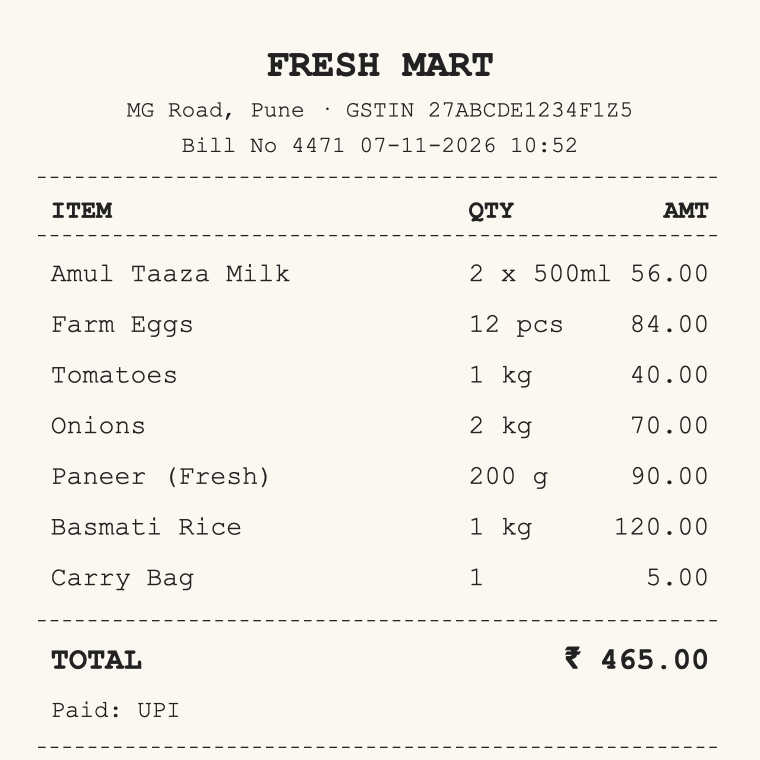
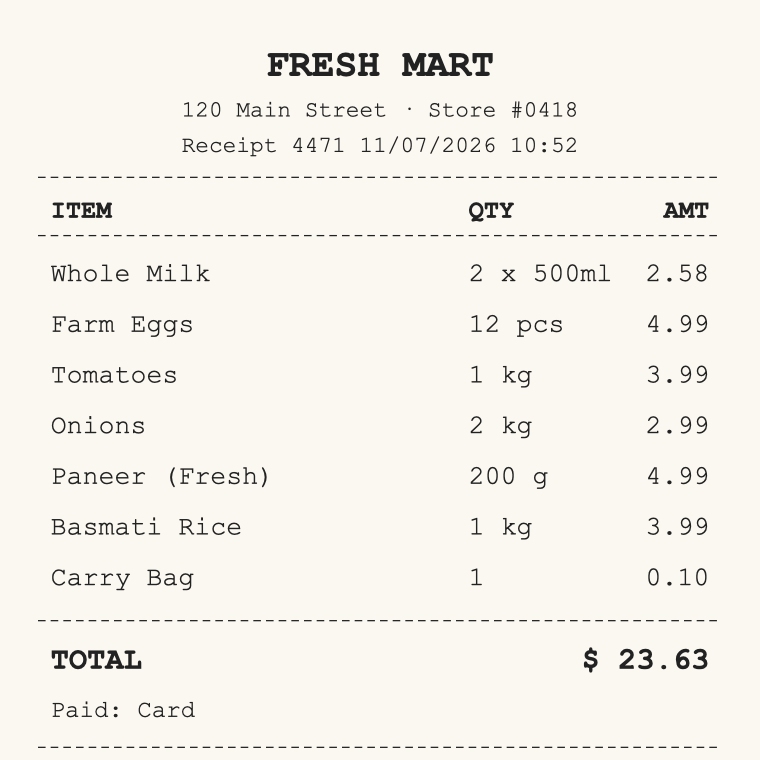
Use dollars as the currency
Seed prices are now US prices per batch and money() shows cents.
The sample bill, README numbers, tests and Keeper instructions follow.

diff --git a/scripts/seed.py b/scripts/seed.py
@@ -17,37 +17,37 @@ sys.path.insert(0, str(Path(__file__).resolve().parent.parent / "tools"))
 
 from common import data_dir, save, today  # noqa: E402
 
-# name, qty left, qty bought, unit, expiry (days from today), price (₹ for the batch), added_by, added (days ago)
+# name, qty left, qty bought, unit, expiry (days from today), price ($ for the batch), added_by, added (days ago)
 PANTRY = [
     # In stock now
-    ("spinach", 250, 250, "g", 1, 40, "Mom", 3),
-    ("paneer", 200, 200, "g", 1, 90, "Dad", 4),
-    ("milk", 0.5, 1, "L", 2, 28, "Mom", 2),
-    ("curd", 400, 400, "g", 3, 50, "Mom", 1),
-    ("eggs", 6, 6, "pcs", 10, 42, "Dad", 3),
-    ("bread", 6, 20, "slices", 2, 45, "Dad", 4),
-    ("tomatoes", 3, 8, "pcs", 4, 40, "Mom", 5),
-    ("onions", 6, 12, "pcs", 20, 60, "Mom", 6),
-    ("potatoes", 2, 6, "pcs", 15, 30, "Mom", 6),
-    ("bananas", 3, 6, "pcs", 2, 36, "Dad", 3),
-    ("rice", 3, 5, "kg", 180, 300, "Mom", 12),
-    ("toor dal", 0.4, 1, "kg", 120, 140, "Mom", 12),
-    ("atta", 3, 5, "kg", 90, 250, "Mom", 12),
-    ("poha", 0.5, 0.5, "kg", 60, 45, "Dad", 8),
-    ("lemons", 2, 4, "pcs", 6, 20, "Mom", 5),
-    ("carrots", 2, 4, "pcs", 5, 20, "Mom", 5),
-    ("peas", 200, 250, "g", 3, 30, "Mom", 4),
-    ("cooking oil", 0.3, 1, "L", 200, 160, "Mom", 20),
+    ("spinach", 250, 250, "g", 1, 3.49, "Mom", 3),
+    ("paneer", 200, 200, "g", 1, 4.99, "Dad", 4),
+    ("milk", 0.5, 1, "L", 2, 1.29, "Mom", 2),
+    ("curd", 400, 400, "g", 3, 2.49, "Mom", 1),
+    ("eggs", 6, 6, "pcs", 10, 2.49, "Dad", 3),
+    ("bread", 6, 20, "slices", 2, 3.29, "Dad", 4),
+    ("tomatoes", 3, 8, "pcs", 4, 3.99, "Mom", 5),
+    ("onions", 6, 12, "pcs", 20, 4.49, "Mom", 6),
+    ("potatoes", 2, 6, "pcs", 15, 2.99, "Mom", 6),
+    ("bananas", 3, 6, "pcs", 2, 1.59, "Dad", 3),
+    ("rice", 3, 5, "kg", 180, 12.99, "Mom", 12),
+    ("toor dal", 0.4, 1, "kg", 120, 4.99, "Mom", 12),
+    ("atta", 3, 5, "kg", 90, 9.99, "Mom", 12),
+    ("poha", 0.5, 0.5, "kg", 60, 2.99, "Dad", 8),
+    ("lemons", 2, 4, "pcs", 6, 2.00, "Mom", 5),
+    ("carrots", 2, 4, "pcs", 5, 1.49, "Mom", 5),
+    ("peas", 200, 250, "g", 3, 1.99, "Mom", 4),
+    ("cooking oil", 0.3, 1, "L", 200, 4.99, "Mom", 20),
     # Wasted this week (expired unused)
-    ("coriander", 1, 1, "bunch", -2, 15, "Mom", 6),
-    ("curd", 200, 400, "g", -3, 50, "Mom", 9),
-    ("bread", 5, 20, "slices", -5, 45, "Dad", 10),
+    ("coriander", 1, 1, "bunch", -2, 0.99, "Mom", 6),
+    ("curd", 200, 400, "g", -3, 2.49, "Mom", 9),
+    ("bread", 5, 20, "slices", -5, 3.29, "Dad", 10),
     # Wasted last week (expired unused)
-    ("spinach", 250, 250, "g", -10, 40, "Mom", 14),
-    ("paneer", 100, 200, "g", -9, 90, "Dad", 13),
-    ("tomatoes", 3, 8, "pcs", -12, 40, "Mom", 16),
-    ("milk", 0.5, 1, "L", -11, 28, "Mom", 13),
-    ("bananas", 4, 6, "pcs", -13, 36, "Dad", 17),
+    ("spinach", 250, 250, "g", -10, 3.49, "Mom", 14),
+    ("paneer", 100, 200, "g", -9, 4.99, "Dad", 13),
+    ("tomatoes", 3, 8, "pcs", -12, 3.99, "Mom", 16),
+    ("milk", 0.5, 1, "L", -11, 1.29, "Mom", 13),
+    ("bananas", 4, 6, "pcs", -13, 1.59, "Dad", 17),
 ]
 
 # item, minimum to keep, how much to buy, unit
@@ -126,7 +126,7 @@ def main():
         {"date": (t - timedelta(days=ago)).isoformat(), "type": k, "item": i, "qty": q, "unit": u, "by": by}
         for ago, k, i, q, u, by in HISTORY]})
 
-    save("settings.json", {"list_owner": args.owner.lstrip("@"), "currency": "₹"})
+    save("settings.json", {"list_owner": args.owner.lstrip("@"), "currency": "$"})
     save("approved_lists.json", {"lists": []})
     draft = data_dir() / "draft_list.json"
     if draft.exists():

diff --git a/tests/test_tools.py b/tests/test_tools.py
@@ -36,7 +36,7 @@ class PantryToolsTest(unittest.TestCase):
 
     def test_add_then_use_updates_stock(self):
         self.run_script("tools/pantry.py", "add", "--item", "Eggs", "--qty", "12",
-                        "--expiry", "2026-11-20", "--price", "84", "--by", "Mom")
+                        "--expiry", "2026-11-20", "--price", "4.99", "--by", "Mom")
         data = self.run_script("tools/pantry.py", "use", "--item", "egg", "--qty", "4", "--by", "Dad")
         self.assertEqual(data["item"], "eggs")
         self.assertEqual(data["in_stock"], 14)
@@ -98,8 +98,8 @@ class PantryToolsTest(unittest.TestCase):
     def test_weekly_report_counts_waste_and_trend(self):
         data = self.run_script("tools/weekly_report.py")
         self.assertEqual(len(data["wasted_this_week"]), 3)
-        self.assertAlmostEqual(data["wasted_value_this_week"], 51.25)
-        self.assertAlmostEqual(data["wasted_value_last_week"], 138.0)
+        self.assertAlmostEqual(data["wasted_value_this_week"], 3.06)
+        self.assertAlmostEqual(data["wasted_value_last_week"], 9.2)
         self.assertEqual(data["trend"], "down")
 
     def test_discard_counts_as_waste(self):

diff --git a/tools/pantry.py b/tools/pantry.py
@@ -1,7 +1,7 @@
 """Add, use, discard and list pantry items.
 
 Examples:
-  python3 tools/pantry.py add --item milk --qty 2 --unit L --expiry 2026-11-10 --price 56 --by Mom
+  python3 tools/pantry.py add --item milk --qty 2 --unit L --expiry 2026-11-10 --price 2.58 --by Mom
   python3 tools/pantry.py use --item eggs --qty 4 --by Dad
   python3 tools/pantry.py cook --meal "palak paneer" --by Mom
   python3 tools/pantry.py discard --item spinach --by Mom

diff --git a/tools/common.py b/tools/common.py
@@ -69,11 +69,11 @@ def fail(message, **extra):
 
 
 def settings():
-    return load("settings.json", {"list_owner": "owner", "currency": "₹"})
+    return load("settings.json", {"list_owner": "owner", "currency": "$"})
 
 
 def money(value) -> str:
-    return f"{settings().get('currency', '₹')}{round(value):,}"
+    return f"{settings().get('currency', '$')}{value:,.2f}"
 
 
 # ---------- pantry batches ----------

diff --git a/README.md b/README.md
@@ -91,7 +91,7 @@ Then type these in `#kitchen`, one message per row. Log in as Mom and Dad in a p
 
 | Who | Message | What happens |
 | --- | --- | --- |
-| Mom | `bought 2 L milk (₹56) and 12 eggs (₹84)` | Keeper adds both items, with guessed expiry dates |
+| Mom | `bought 2 L milk ($2.58) and 12 eggs ($4.99)` | Keeper adds both items, with guessed expiry dates |
 | Dad | `used 4 eggs for breakfast` | Keeper updates the stock |
 | Dad | `used 30 eggs` | Keeper refuses: only 14 in stock, please check |
 | You | `@pantry-keeper what's expiring?` | Spinach and paneer expire tomorrow; Keeper hands off to Chef |
@@ -103,9 +103,9 @@ Then type these in `#kitchen`, one message per row. Log in as Mom and Dad in a p
 | You | `@pantry-chef make this week's shopping list` | Chef drafts the list, skipping the milk Mom just bought, and asks you to approve |
 | Dad | `@pantry-chef approved` | Chef waits: only the list owner can approve |
 | You | `@pantry-chef remove potatoes, add 200 g paneer, approved` | Chef posts the final list |
-| You | `@pantry-keeper weekly report` | 3 items wasted, about ₹51, down 63% from ₹138 last week |
+| You | `@pantry-keeper weekly report` | 3 items wasted, about $3.06, down 67% from $9.20 last week |
 | You | `@pantry-keeper got these today`, with [`demo/sample-bill.png`](demo/sample-bill.png) attached | Keeper reads the bill, lists 6 food items (1 L milk from 2 × 500 ml, carry bag left out) and asks how many tomatoes and onions, since it tracks those in pieces |
-| You | `@pantry-keeper 8 tomatoes and 12 onions. yes` | Keeper adds all 6 items, ₹460 in total |
+| You | `@pantry-keeper 8 tomatoes and 12 onions. yes` | Keeper adds all 6 items, $23.53 in total |
 
 To run the demo again from the start: `python3 scripts/seed.py --owner <your-username>`.
 
@@ -124,7 +124,7 @@ Each script prints JSON with a `message` the agents can post in chat.
 | `python3 tools/meals.py --days 2 --top 3` | Meals that use the soonest-expiring food first |
 | `python3 tools/shopping_list.py draft` | Draft the list from staples running low |
 | `python3 tools/shopping_list.py approve --by <owner> --remove onions --add "paneer:200:g"` | Approve the list (list owner only) |
-| `python3 tools/weekly_report.py` | Waste this week vs last week, in ₹ |
+| `python3 tools/weekly_report.py` | Waste this week vs last week, in $ |
 
 Data lives in `data/`: `pantry.json` (stock, by purchase batch), `staples.json` (what the family always keeps), `recipes.json`, `history.json`, `settings.json` (list owner) and `approved_lists.json`.
 
